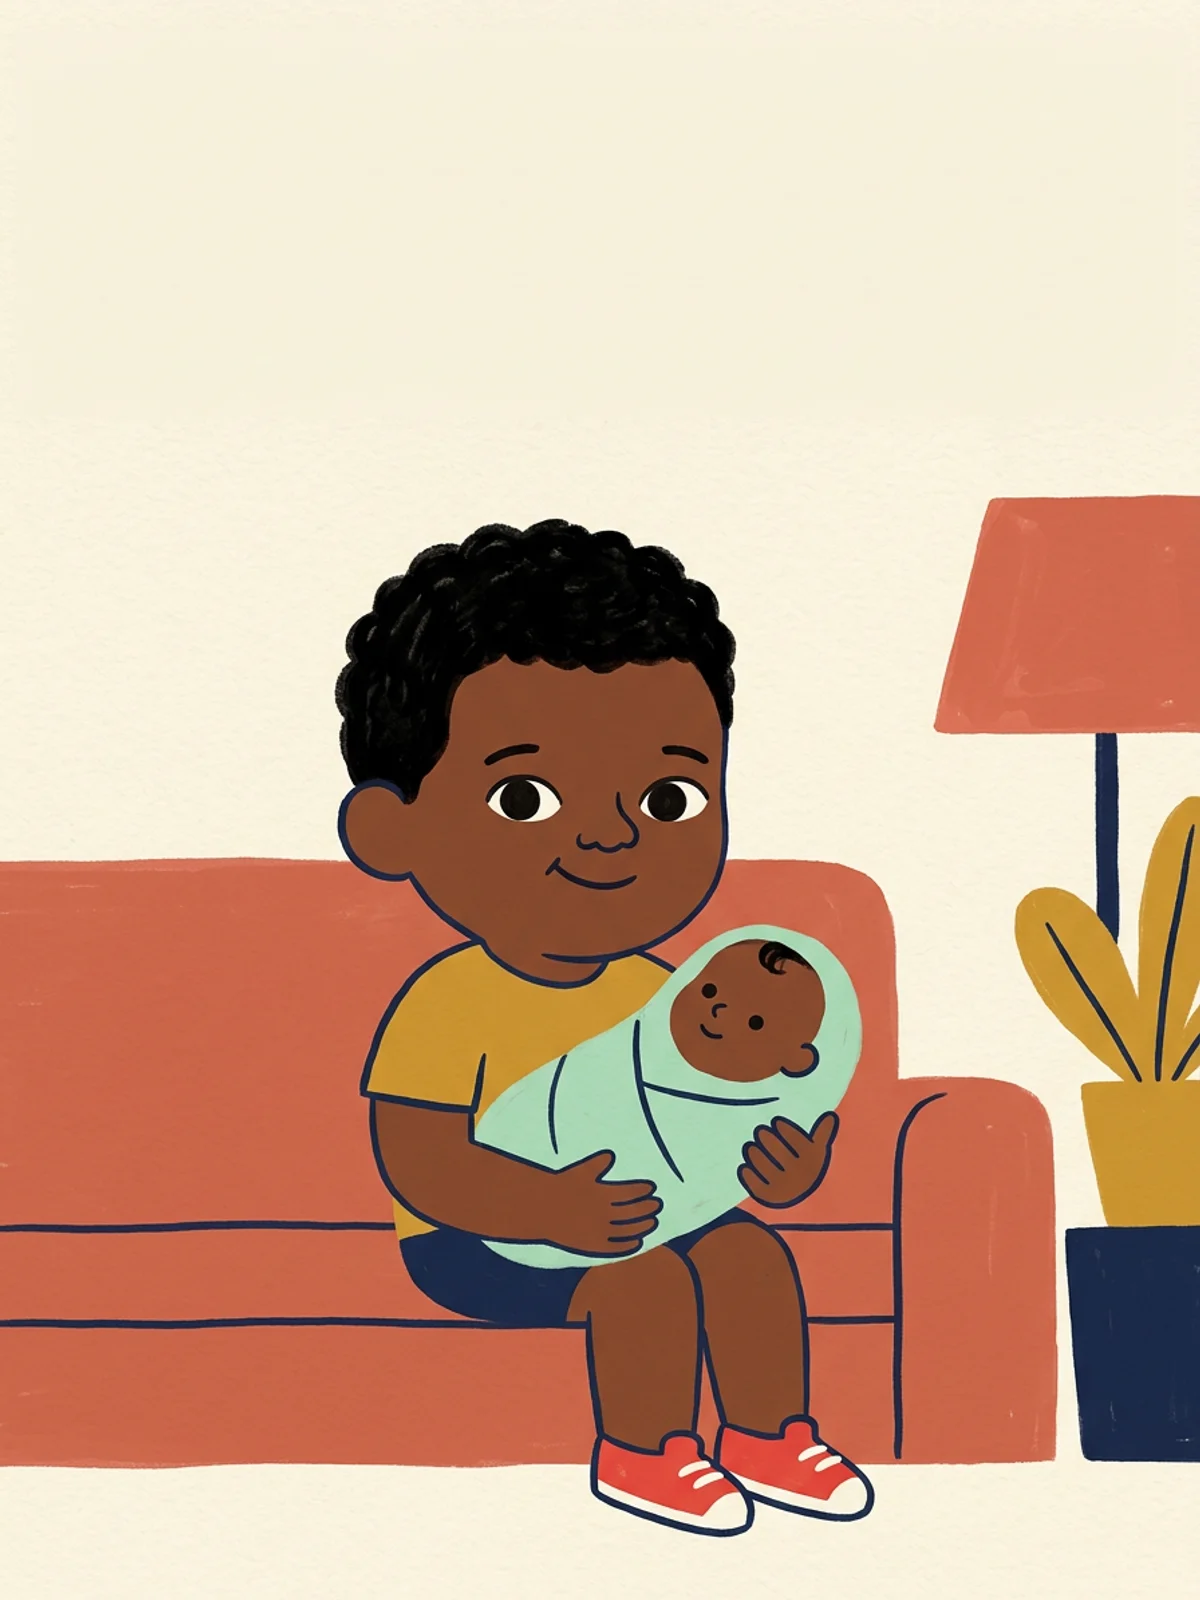
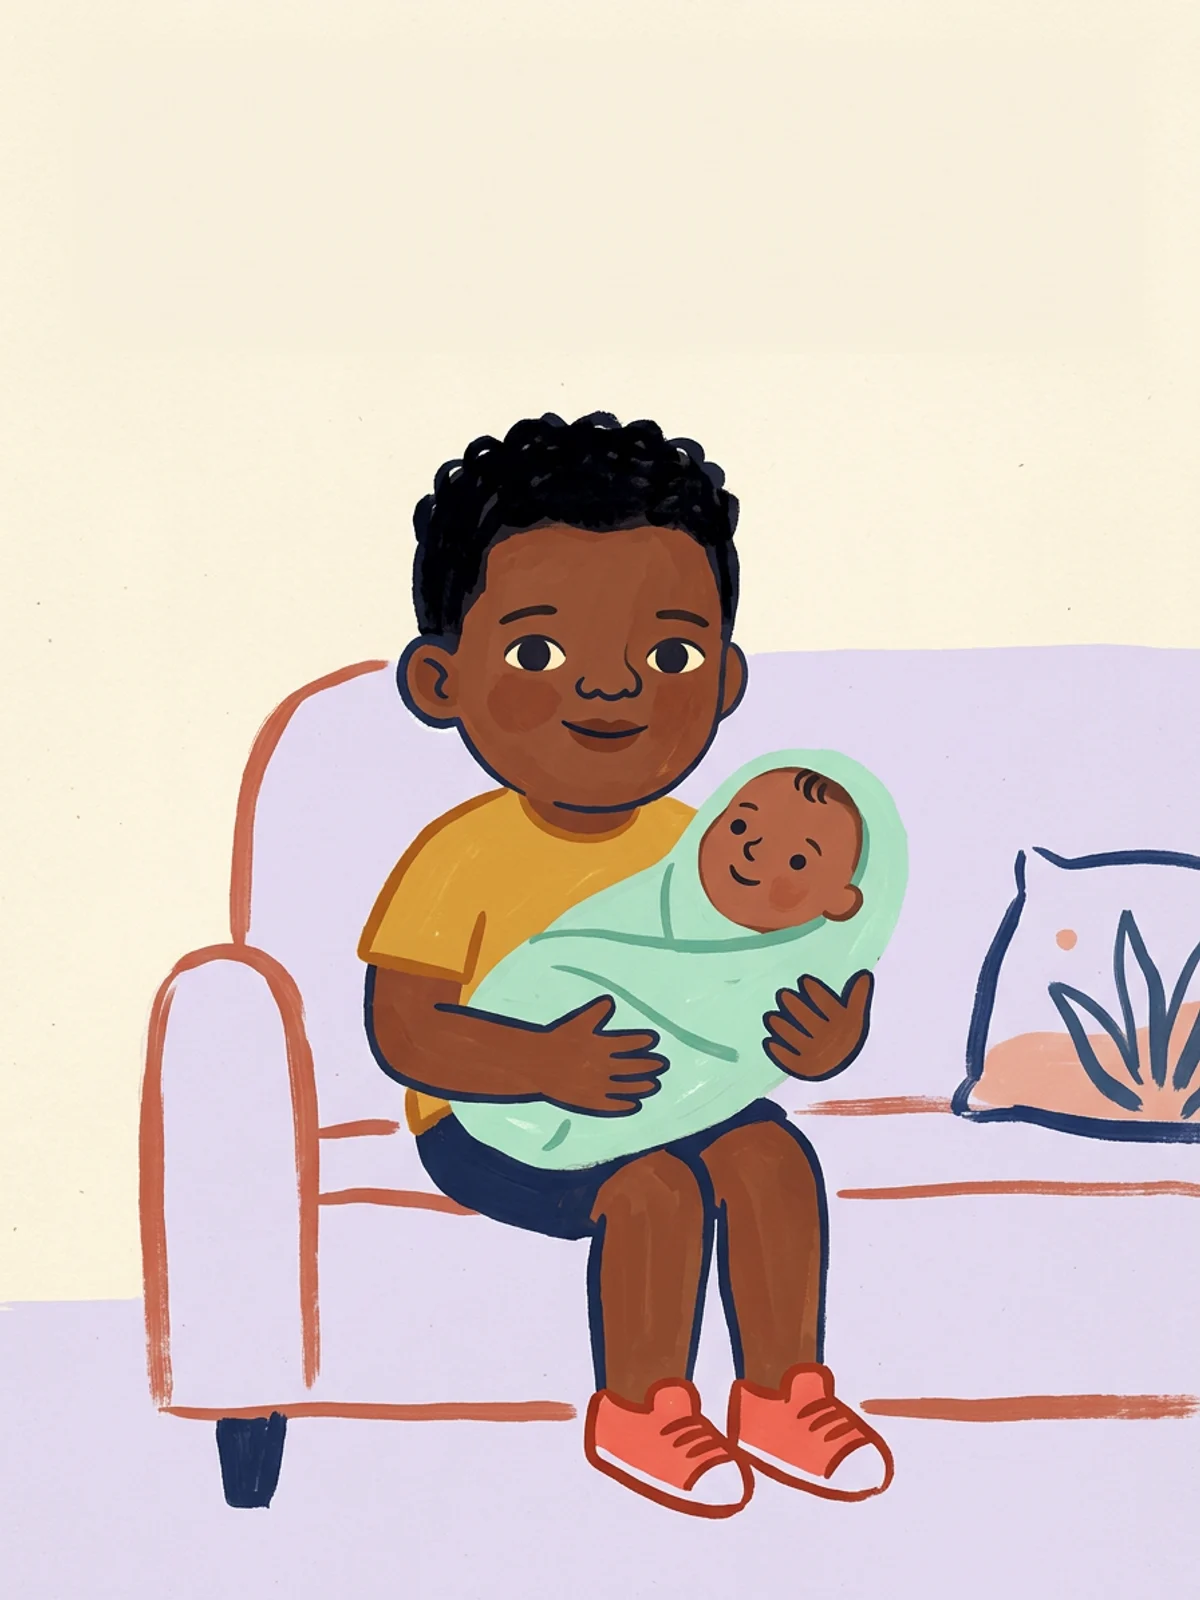
Portadas por etapa de edad: bebés saturado, 6-8 historieta, 9-12 novela gráfica; elenco a la edad de cada etapa

diff --git a/packages/providers/scripts/generate-brand-images.ts b/packages/providers/scripts/generate-brand-images.ts
@@ -40,6 +40,10 @@ const BG: Record<string, string> = {
   lavender: 'pale lavender',
   mustard: 'warm mustard yellow',
   cream: 'warm cream',
+  // Bebés: color saturado (estudio de estilos, DECISIONS 158).
+  yellowSat: 'saturated sunflower yellow',
+  blueSat: 'saturated deep blue',
+  turquoise: 'saturated turquoise',
 };
 
 // --- Elenco (archivo 01) ------------------------------------------------------------------------
@@ -52,6 +56,21 @@ const CAST = {
   sofi: 'Sofi, 7 (long black braids, medium-brown skin, mint dress)',
   alex: 'Alex, 10 (short wavy black hair, light-brown skin, green hoodie)',
 };
+// El mismo chico a distintas edades (DECISIONS 158): mismos rasgos, proporción y ropa según la edad.
+const KID = {
+  tomas:
+    'curly brown hair, round red glasses, light skin with rosy cheeks, blue-and-white striped sweater, green trousers',
+  martina: 'straight dark-brown bob with bangs, freckles, olive skin, coral sweater',
+  benja: 'short black coily hair, warm dark-brown skin, mustard t-shirt, red sneakers',
+  sofi: 'long black braids, medium-brown skin, mint dress',
+};
+const KID_NAME = { tomas: 'Tomás', martina: 'Martina', benja: 'Benja', sofi: 'Sofi' };
+const at = (name: keyof typeof KID, age: number) =>
+  `${KID_NAME[name]}, ${String(age)} (${KID[name]})`;
+// Por etapa: bebés saturado y simple, 6–8 historieta, 9+ novela gráfica.
+const BABY = `Flat gouache or cut-paper picture-book illustration for babies. Saturated high-contrast colors (red, blue, turquoise, sunflower yellow), NO pastels, thick clear outlines, very simple shapes, a single main element on a plain saturated background, a large friendly face in the upper half. Toddler proportions (big head, short limbs). Matte opaque paint, slight hand-made texture.`;
+const READER = `Gouache editorial children's illustration with comic-book energy. Opaque matte paint with visible brush texture, limited palette of navy, coral, mustard, mint. Taller proportions (head about one fifth of the body), diagonal dynamic composition, the child in motion, humor, hand-drawn motion lines, no text or lettering of any kind. Expressive faces with character.`;
+const NOVEL = `Graphic-novel illustration for pre-teen readers. Firm black ink linework with flat color fills, deep navy and terracotta palette, realistic proportions (head about one sixth of the body), cinematic low-angle framing, suspense and intrigue. Nothing cute, nothing babyish, no rounded cartoon face.`;
 const GENERIC = 'a child with short neutral brown hair and a plain t-shirt';
 
 interface Job {
@@ -202,21 +221,21 @@ const JOBS: Job[] = [
   // ---- Portadas Familias (Gouache editorial; archivo 03) --------------------------------------
   cover(
     'te-quiero-siempre',
-    GOUACHE,
-    'coral',
-    `${CAST.lola} hugs the neck of a parent seen from behind (only shoulders, arms and hair visible), her cheek pressed on the parent's shoulder, eyes closed, smiling. Three small flat hearts.`,
+    BABY,
+    'yellowSat',
+    `${at('martina', 2)} hugs the neck of an adult seen from behind (only shoulders, arms and hair visible), cheek on the shoulder, eyes closed, smiling. Three big flat red hearts.`,
   ),
   cover(
     'buenas-noches',
-    GOUACHE,
-    'navy',
-    `${CAST.lola.replace('yellow overalls', 'yellow pajamas')} sits in a small bed holding a soft bunny, yawning. A simple round window with a crescent moon shape and one bedside lamp with a warm circle of light (flat, no glow).`,
+    BABY,
+    'blueSat',
+    `${at('tomas', 2)} in blue pajamas yawning, holding a red bunny. One big flat yellow moon behind. No soft glow.`,
   ),
   cover(
     'amigos-de-la-selva',
-    GOUACHE,
-    'mint',
-    `${CAST.lola} sits on the grass laughing while a big-beaked toucan, a small monkey and a baby elephant look at her. Three big simple leaves. High contrast, very simple shapes for babies.`,
+    BABY,
+    'turquoise',
+    `${at('benja', 2)} laughing in front of an enormous toucan with a big orange beak. Two huge flat green leaves.`,
   ),
   cover(
     'aventura-espacial',
@@ -228,25 +247,25 @@ const JOBS: Job[] = [
     'valle-de-los-dinosaurios',
     GOUACHE,
     'mint',
-    `${CAST.benja} sits on the back of a friendly long-necked green dinosaur that turns its head to look at him. A small volcano shape far away, two big ferns.`,
+    `${at('benja', 5)} sits on the back of a friendly long-necked green dinosaur that turns its head to look at him. A small volcano shape far away, two big ferns.`,
   ),
   cover(
     'reino-encantado',
     GOUACHE,
     'lavender',
-    `${CAST.martina} wears a small mustard crown and holds a paintbrush; behind her a simple castle that is grey on the left and full of color on the right where she painted it.`,
+    `${at('martina', 5)} wears a small mustard crown and holds a paintbrush; behind her a simple castle that is grey on the left and full of color on the right where she painted it.`,
   ),
   cover(
     'secreto-del-fondo-del-mar',
     GOUACHE,
     'mint',
-    `${CAST.sofi} swims underwater inside a clear round bubble helmet next to a big friendly sea turtle. Two coral plants and a small treasure chest at the bottom. Flat blues and terracotta.`,
+    `${at('sofi', 5)} swims underwater inside a clear round bubble helmet next to a big friendly sea turtle. Two coral plants and a small treasure chest. Flat blues and terracotta.`,
   ),
   cover(
     'superheroe-por-un-dia',
     GOUACHE,
     'mustard',
-    `${CAST.benja} in a coral cape and a navy eye mask stands on a rooftop with fists on his hips, a small cat on the chimney looking at him admiringly. Two simple houses below.`,
+    `${at('benja', 5)} in a coral cape and a navy eye mask stands on a rooftop with fists on hips, a small cat on the chimney looking at him admiringly. Two simple houses below.`,
   ),
   cover(
     'la-gran-carrera',
@@ -258,37 +277,37 @@ const JOBS: Job[] = [
     'hermano-mayor',
     GOUACHE,
     'cream',
-    `${CAST.benja} sits on a sofa very carefully holding a baby sibling wrapped in a mint blanket, looking at the viewer proudly.`,
+    `${at('benja', 5)} sits on a sofa very carefully holding a baby wrapped in a mint blanket, looking at the viewer proudly.`,
   ),
   cover(
     'mi-primer-dia-de-clases',
     GOUACHE,
     'mustard',
-    `${CAST.martina} with a big terracotta backpack stands at an open school door holding the strap with both hands, a little nervous but smiling; inside, a glimpse of a colorful classroom.`,
+    `${at('martina', 5)} with a big terracotta backpack stands at an open school door holding the strap with both hands, a little nervous but smiling; inside, a glimpse of a colorful classroom.`,
   ),
   cover(
     'gol-de-campeon',
-    GOUACHE,
+    READER,
     'mint',
-    `${CAST.benja.replace('mustard t-shirt', 'navy jersey with the number 10')} kicks a ball toward a goal, mid-motion, dust lines at his foot. Two teammates far back raising their arms. No magic trail behind the ball.`,
+    `${at('benja', 8)} in a navy jersey with the number 10 kicks a ball diagonally, the ball leaving the frame with speed lines; two teammates celebrating behind. No magic trail.`,
   ),
   cover(
     'las-tardes-con-los-abuelos',
-    GOUACHE,
+    READER,
     'coral',
-    `${CAST.martina} stands on a chair between her grandmother (grey bun, cardigan) and grandfather (glasses, sweater) in a simple kitchen, all three laughing with flour on their hands.`,
+    `${at('martina', 8)} cooking with her grandmother (grey bun, cardigan) and grandfather (glasses, sweater), all three laughing with flour on their hands; a cloud of flour drawn like in a comic.`,
   ),
   cover(
     'un-lunes-al-reves',
-    GOUACHE,
+    READER,
     'mustard',
-    `${CAST.alex} floats upside down holding a cereal bowl while the cereal floats up; in the background, a dog walks a person on a leash. Funny, absurd, energetic.`,
+    `${at('tomas', 8)} upside down with a cereal bowl, the cereal floating upward; behind, the family dog walking a person on a leash. Funny, absurd, energetic. No lettering.`,
   ),
   cover(
     'el-misterio-del-faro',
-    GOUACHE,
+    NOVEL,
     'navy',
-    `${CAST.alex} with a flashlight and a small notebook stands on dark rocks looking up at a tall lighthouse with its light off; one beam of flashlight light (flat shape, no glow). Mystery mood, still friendly.`,
+    `${at('sofi', 11)} seen from behind and below, with a flashlight and a notebook on dark rocks, looking at a tall lighthouse whose light is off; the flashlight beam is a flat shape.`,
   ),
   // ---- Celebraciones -------------------------------------------------------------------------
   cover(
